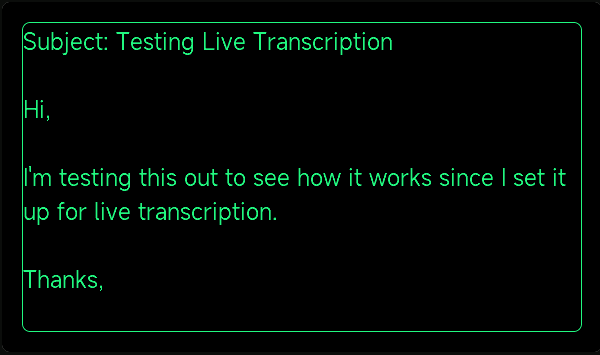
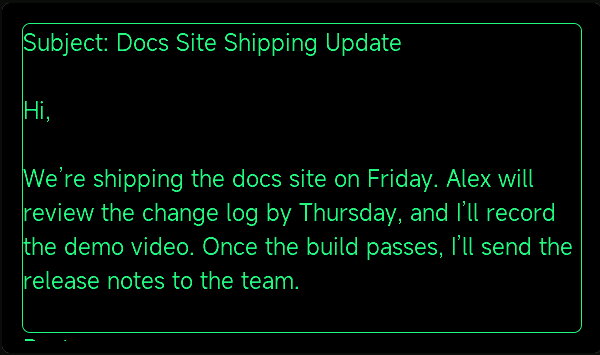
Walk through the Scribe glasses app tab by tab
Replaces the single Scribe screenshot with one recorded session in Plugin
Studio: live captions while recording, the saved transcript, the rewrite panel,
all eight built-in profiles on the glasses, History, and Profiles with a
built-in view and a custom profile. Host names are painted out of the model
labels.

diff --git a/docs/journeys/anvil-scribe.md b/docs/journeys/anvil-scribe.md
@@ -18,6 +18,56 @@ route-bound key.
 - You want the same memo as an email, a task list or minutes, on demand.
 - Recordings and transcripts must stay on your own hosts and out of evaluation.
 
+## A walk through the glasses app
+
+These screenshots come from one session in the MemoMind Plugin Studio
+simulator, running against a live Scribe service. The app has three tabs:
+Record, History and Profiles. The glasses display is 600x350.
+
+### Record
+
+Tap the mic, or press the glasses button, and speak. The transcript appears as
+you talk, on the phone and on the glasses. Press again to stop and save, or
+double-press to cancel, which saves nothing.
+
+![The Record tab while recording: a red stop button, the 0:22 timer, and the live transcript of a planning update.](../assets/scribe/phone-recording.png)
+![The glasses display while recording, showing "REC" and the same live transcript.](../assets/scribe/hud-recording.png)
+
+Scribe saves the raw transcript first, exactly as you said it. Then pick a
+profile, choose a model and tap Rewrite. Each rewrite is added below the
+transcript with its own Copy button. The latest result also shows on the
+glasses, and holding the glasses button brings it back.
+
+![The saved memo: the 0:27 recording, the raw transcript, and the eight rewrite profiles.](../assets/scribe/phone-saved.png)
+![The rewrite panel with the model picker and two results, an email and a technical document.](../assets/scribe/phone-rewrite.png)
+
+![The glasses display showing the email rewrite: "Subject: Docs Site Shipping Update" followed by the message.](../assets/scribe/hud-email.png)
+
+The same memo, rewritten by each built-in profile:
+
+![Eight glasses displays, one per built-in profile: Email, Technical doc, Clean note, Message, Meeting minutes, Task list, Say it better and Summary.](../assets/scribe/hud-profiles.png)
+
+### History
+
+Every recording is kept with its length and rewrite count. Tap one to see the
+original transcript and every rewrite made from it.
+
+![The History tab with the planning memo expanded: the original transcript, then the email rewrite.](../assets/scribe/phone-history.png)
+
+### Profiles
+
+The eight built-in profiles are read-only. Open one to read its prompt, or
+duplicate it as a custom profile and adjust it. "New profile" takes a name, a
+description, a prompt and a default model.
+
+![The Profiles tab listing the eight built-in profiles, each with a one-line description.](../assets/scribe/phone-profiles.png)
+![The read-only view of the built-in Technical doc profile, showing its prompt and a "Duplicate as custom" button.](../assets/scribe/phone-builtin.png)
+![A new custom profile, "Standup update", with a prompt asking for Yesterday, Today and Blockers headings.](../assets/scribe/phone-new-profile.png)
+
+A saved custom profile appears next to the built-ins as a rewrite option:
+
+![The glasses display showing the memo rewritten by the custom Standup update profile, with Yesterday and Today sections.](../assets/scribe/hud-custom-profile.png)
+
 ## Go deeper
 
 - Command reference: [scribe](../cli/scribe.md)

diff --git a/docs/MEMOMIND-GLASSES.md b/docs/MEMOMIND-GLASSES.md
@@ -27,12 +27,14 @@ These screenshots come from the MemoMind Plugin Studio simulator, connected to
 live Scribe and Agent services. In each pair, the phone app is on the left or
 first, and the glasses display follows.
 
-**Anvil Scribe.** A dictated memo, rewritten as an email with a saved profile.
-The raw transcript stays on top.
+**Anvil Scribe.** A dictated planning update, rewritten as an email with a
+saved profile. The raw transcript stays above it. The
+[Scribe walkthrough](journeys/anvil-scribe.md#a-walk-through-the-glasses-app)
+covers every tab and profile.
 
-![The Anvil Scribe phone app showing the raw transcript, the rewrite profiles (Email, Technical doc, Clean note, Message, Meeting minutes, Task list, Say it better, Summary), and the transcript rewritten as an email.](assets/scribe/phone-rewrite.png)
+![The Anvil Scribe phone app showing the rewrite profiles (Email, Technical doc, Clean note, Message, Meeting minutes, Task list, Say it better, Summary), the model picker, and the memo rewritten as an email.](assets/scribe/phone-rewrite.png)
 
-![The glasses display showing the same email: "Subject: Testing Live Transcription", a greeting, the dictated sentence and "Thanks,".](assets/scribe/hud-email.png)
+![The glasses display showing the email: "Subject: Docs Site Shipping Update" followed by the message.](assets/scribe/hud-email.png)
 
 **Anvil Agent.** An agent asks the wearer a question and waits for the answer.
 
